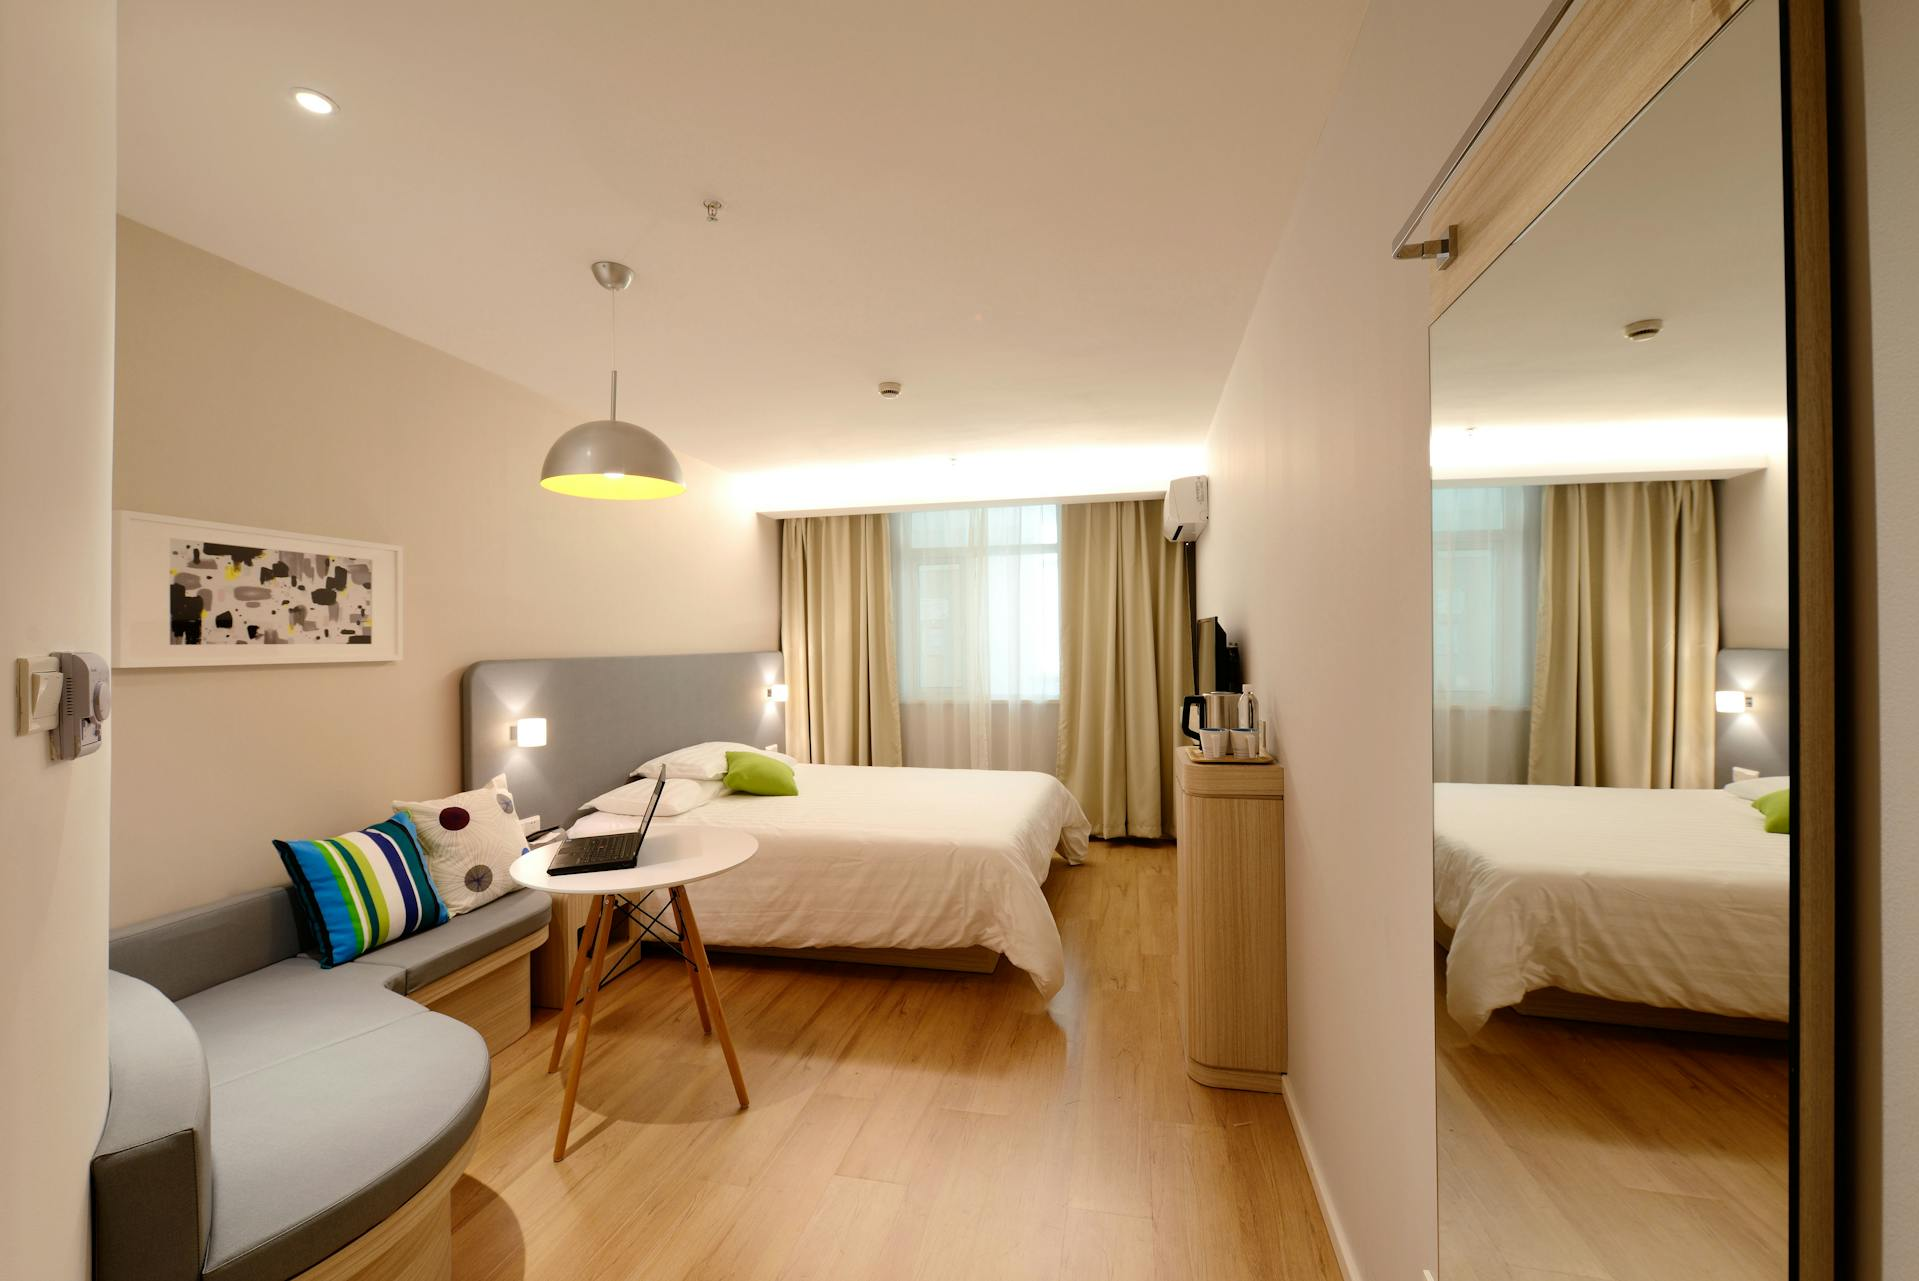
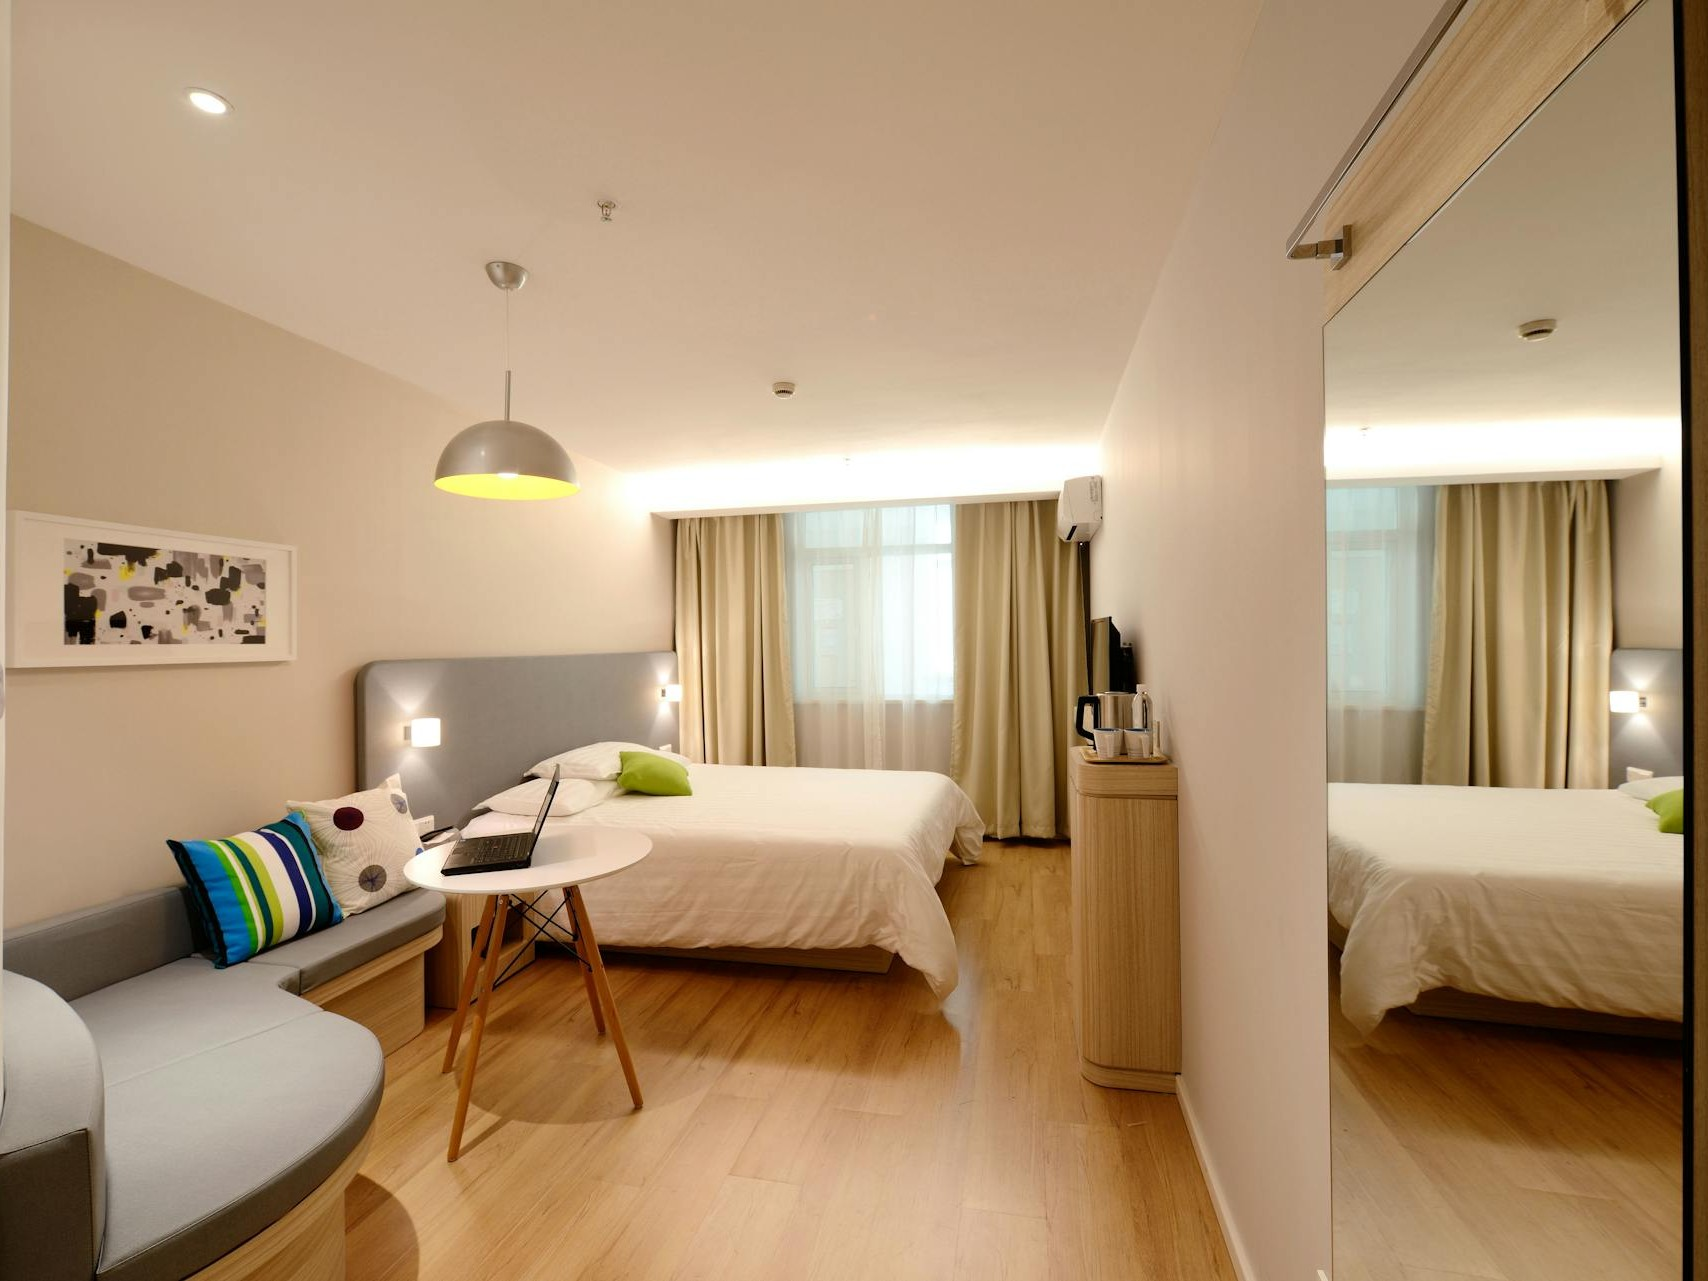
Add Rooms component with layout and styling; include room images and titles

diff --git a/src/App.css b/src/App.css
@@ -386,6 +386,7 @@
     display: flex;
     flex-direction: column;
     align-items: center;
+    margin: 120px 20px 0 20px;
 }
 
 .card-container-inner {
@@ -439,7 +440,7 @@ i.ri {
     flex-direction: column;
     justify-content: center;
     align-items: center;
-    margin: 40px 20px 0 20px;
+    margin: 120px 20px 0 20px;
 }
 
 .heading {
@@ -510,7 +511,7 @@ i.ri {
     flex-direction: column;
     justify-content: center;
     align-items: center;
-    margin: 80px 20px 0 20px;
+    margin: 120px 20px 0 20px;
 }
 
 .event-card-container {
@@ -596,4 +597,59 @@ i.ri {
     .card-area {
         flex-direction: column;
     }
+}
+
+/* ===Rooms & Accomodations */
+
+.room-container {
+    display: flex;
+    flex-direction: column;
+    justify-content: center;
+    align-items: center;
+    margin: 120px 20px 0 20px;
+}
+
+.room-card-container {
+    display: flex;
+}
+
+.room-card-area {
+    display: flex;
+    align-items: center;
+    justify-content: center;
+    gap: 30px;
+}
+
+.room-card {
+    display: flex;
+    flex-direction: column;
+    justify-content: center;
+    align-items: flex-start;
+    border-radius: 10px;
+    width: 100%;
+}
+
+.room-card img {
+    width: 100%;
+    /* filter: grayscale(0.7); */
+    transition: 0.3s;
+    /* border-radius: 10px; */
+}
+
+.room-card-content {
+    width: 100%;
+    background: #a39752;
+    padding: 20px 10px;
+    display: flex;
+    justify-content: flex-start;
+    align-items: center;
+}
+
+.room-card:hover img {
+    /* filter: grayscale(0); */
+}
+
+.room-card-content:hover {
+    cursor: pointer;
+    text-decoration: underline;
 }

diff --git a/src/components/Rooms.jsx b/src/components/Rooms.jsx
@@ -1,3 +1,39 @@
-const Rooms = () => {};
+import imgOne from '../assets/rooms/room-1.jpg';
+import imgTwo from '../assets/rooms/room-2.jpg';
+import imgThree from '../assets/rooms/room-3.jpg';
+
+const Rooms = () => {
+    return (
+        <>
+            <div className="room-container">
+                <div className="heading">
+                    <h2>Rooms & Accomodations</h2>
+                </div>
+                <div className="room-card-container">
+                    <div className="room-card-area">
+                        <div className="room-card">
+                            <img src={imgThree} alt="" />
+                            <div className="room-card-content">
+                                <h3>King Rooms</h3>
+                            </div>
+                        </div>
+                        <div className="room-card">
+                            <img src={imgOne} alt="" />
+                            <div className="room-card-content">
+                                <h3>Couple Rooms</h3>
+                            </div>
+                        </div>
+                        <div className="room-card">
+                            <img src={imgTwo} alt="" />
+                            <div className="room-card-content">
+                                <h3>Guest Rooms</h3>
+                            </div>
+                        </div>
+                    </div>
+                </div>
+            </div>
+        </>
+    );
+};
 
 export default Rooms;

diff --git a/src/App.jsx b/src/App.jsx
@@ -7,6 +7,8 @@ import About from './components/About';
 import Card from './components/Card';
 import Gallery from './components/Gallery';
 import Events from './components/Events';
+import Rooms from './components/Rooms';
+
 import './App.css';
 
 function App() {
@@ -20,6 +22,7 @@ function App() {
             <Card />
             <Gallery />
             <Events />
+            <Rooms />
         </>
     );
 }
